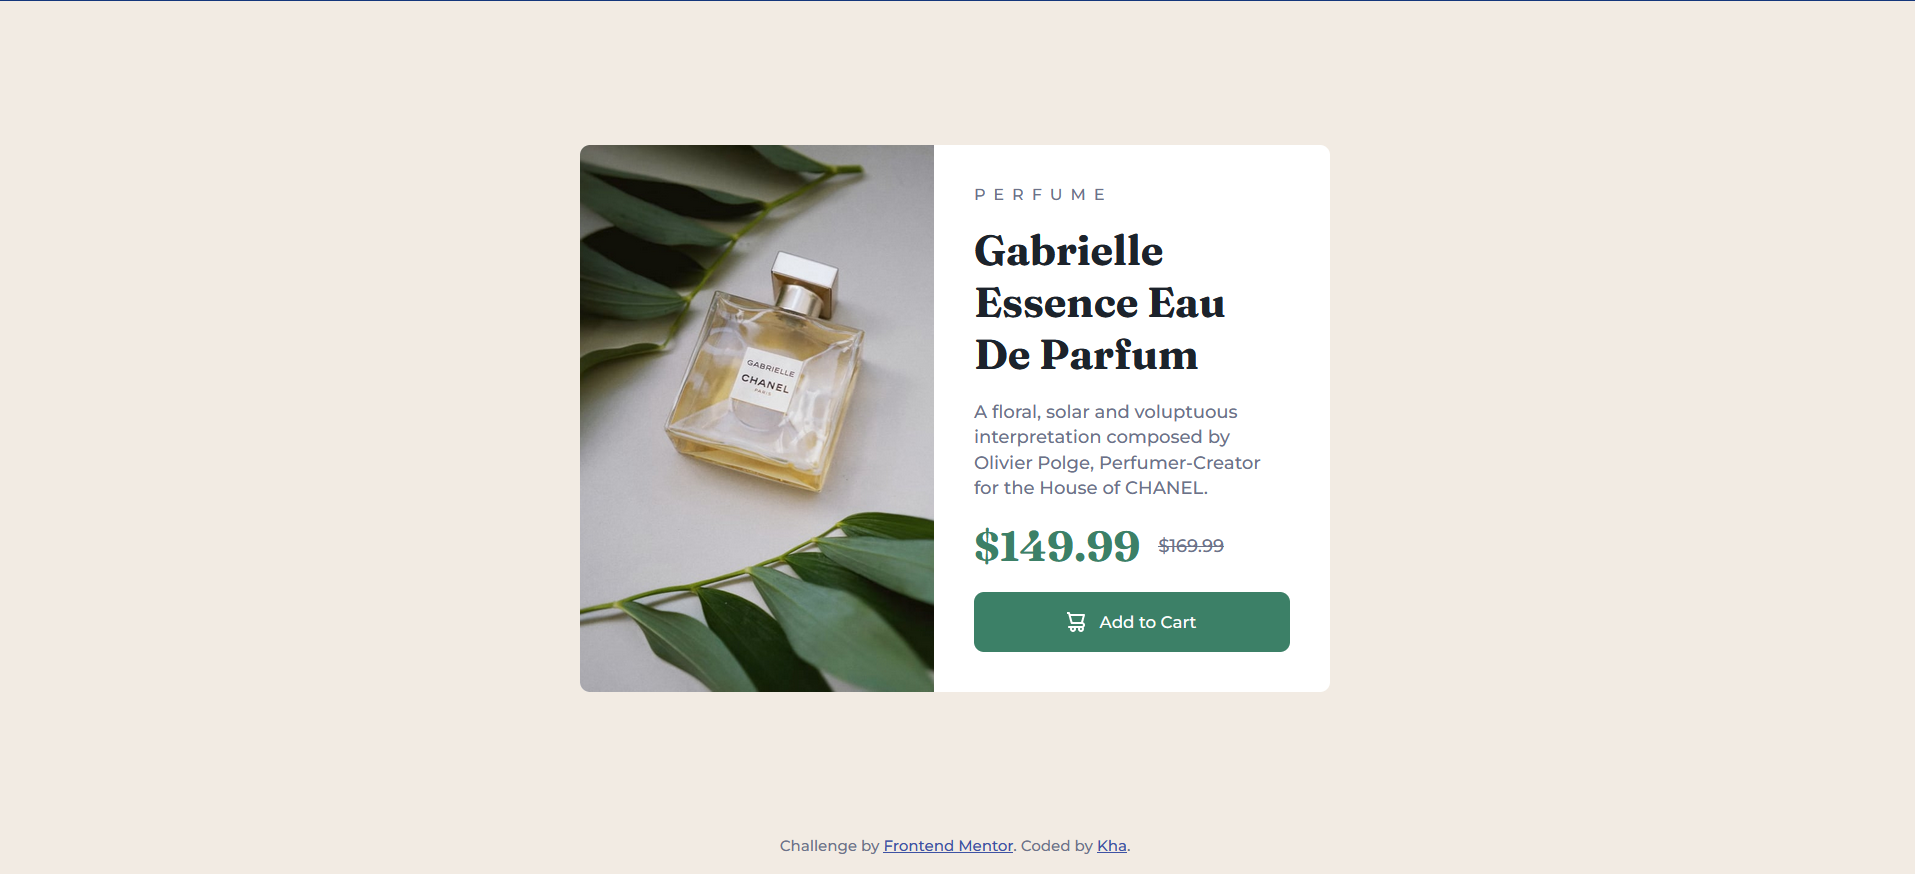
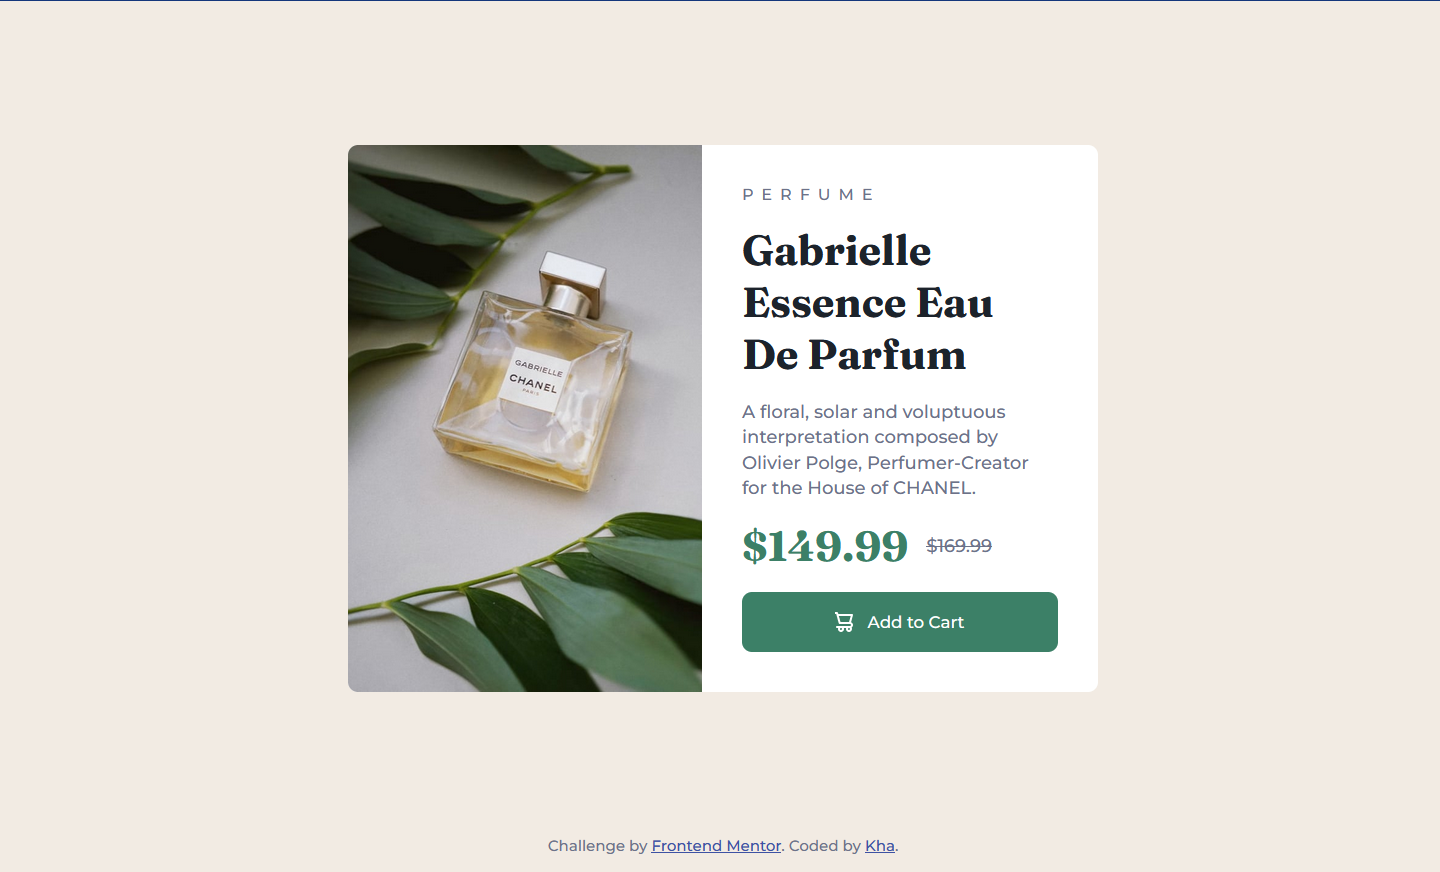
change README link and screenshot size

Changed region(s): [[0.2188, 0.1548, 0.7812, 0.805], [0.375, 0.9599, 0.625, 0.9908], [0.4688, 0.7431, 0.5, 0.7741]]

diff --git a/README.md b/README.md
@@ -18,9 +18,9 @@ Users should be able to:
 
 ### Links
 
-- Challenge: [Product preview card component]([https://your-live-site-url.com](https://www.frontendmentor.io/challenges/product-preview-card-component-GO7UmttRfa))
+- Challenge: [Product preview card component](https://www.frontendmentor.io/challenges/product-preview-card-component-GO7UmttRfa)
 
-- Solution: [My solution]([https://your-solution-url.com](https://minhkha27.github.io/product-preview-card-component-main/))
+- Solution: [My solution](https://minhkha27.github.io/product-preview-card-component-main/)
 
 ### Built with
 
@@ -30,4 +30,4 @@ Users should be able to:
 
 ## Author
 - Code by Kha :frog:
-- Frontend Mentor - [:frog:]([https://www.frontendmentor.io/profile/yourusername](https://www.frontendmentor.io/profile/MinhKha27))
+- Frontend Mentor - [:frog:](https://www.frontendmentor.io/profile/MinhKha27)
